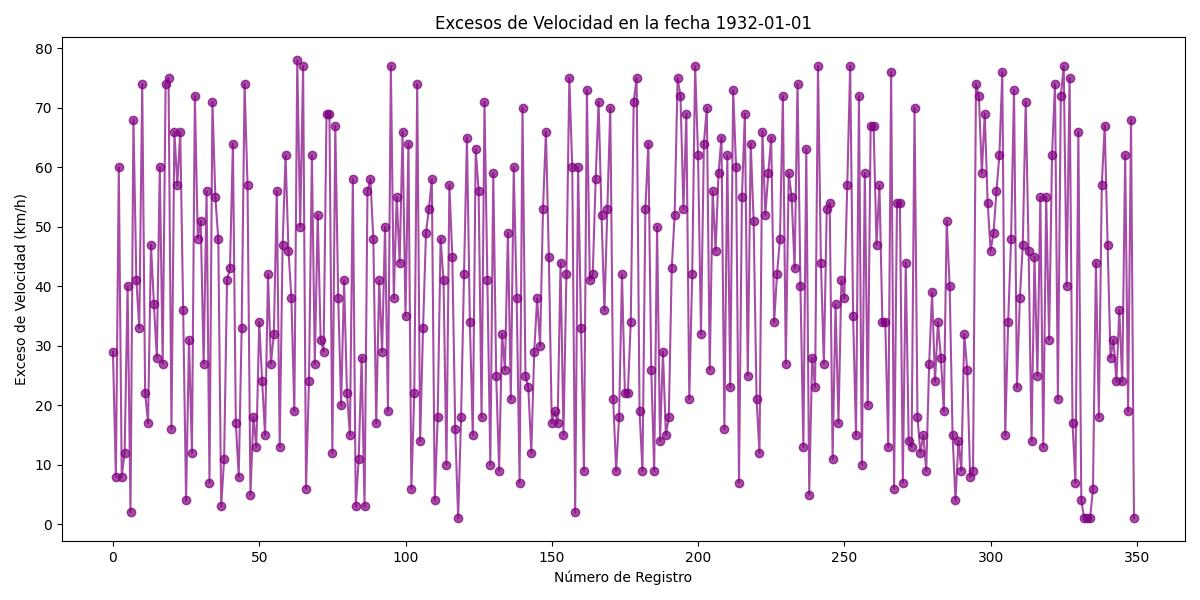
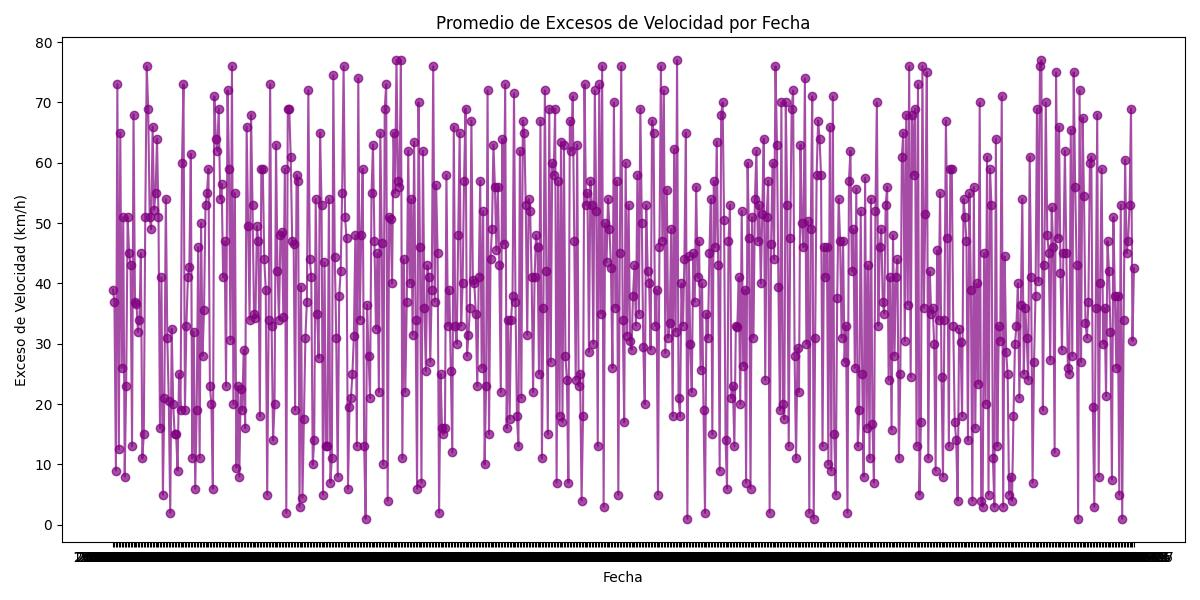
Día 8: Correciones en ejercicio 3. Carga dataset corregido.

diff --git a/CHANGELOG.md b/CHANGELOG.md
@@ -18,3 +18,6 @@ Cálculo de métricas avanzadas y exportación de datos.
 
 # Día 7
 Redacción de conclusiones finales.
+
+# Día 8
+Aplicacion de correcciones en el dataset sugerido por el profesor.
